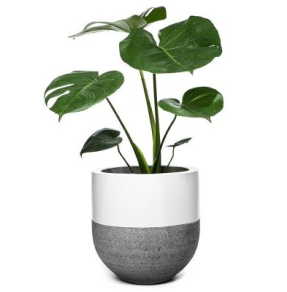
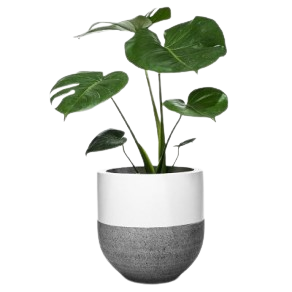
Refactor CSS styles and update images

diff --git a/css/style.css b/css/style.css
@@ -41,8 +41,6 @@
 
 .content {
     background-color: #FBFBFB;
-    width: 586px;
-    height: 250px;
 }
 
 .content__img {
@@ -61,7 +59,7 @@
     text-align: right;
     padding-right: 30px;
     color: #3D3D3D;
-    padding: 37px 30px 45px 0;
+    padding: 37px 30px 45px 259px;
 }
 
 .content__title {
